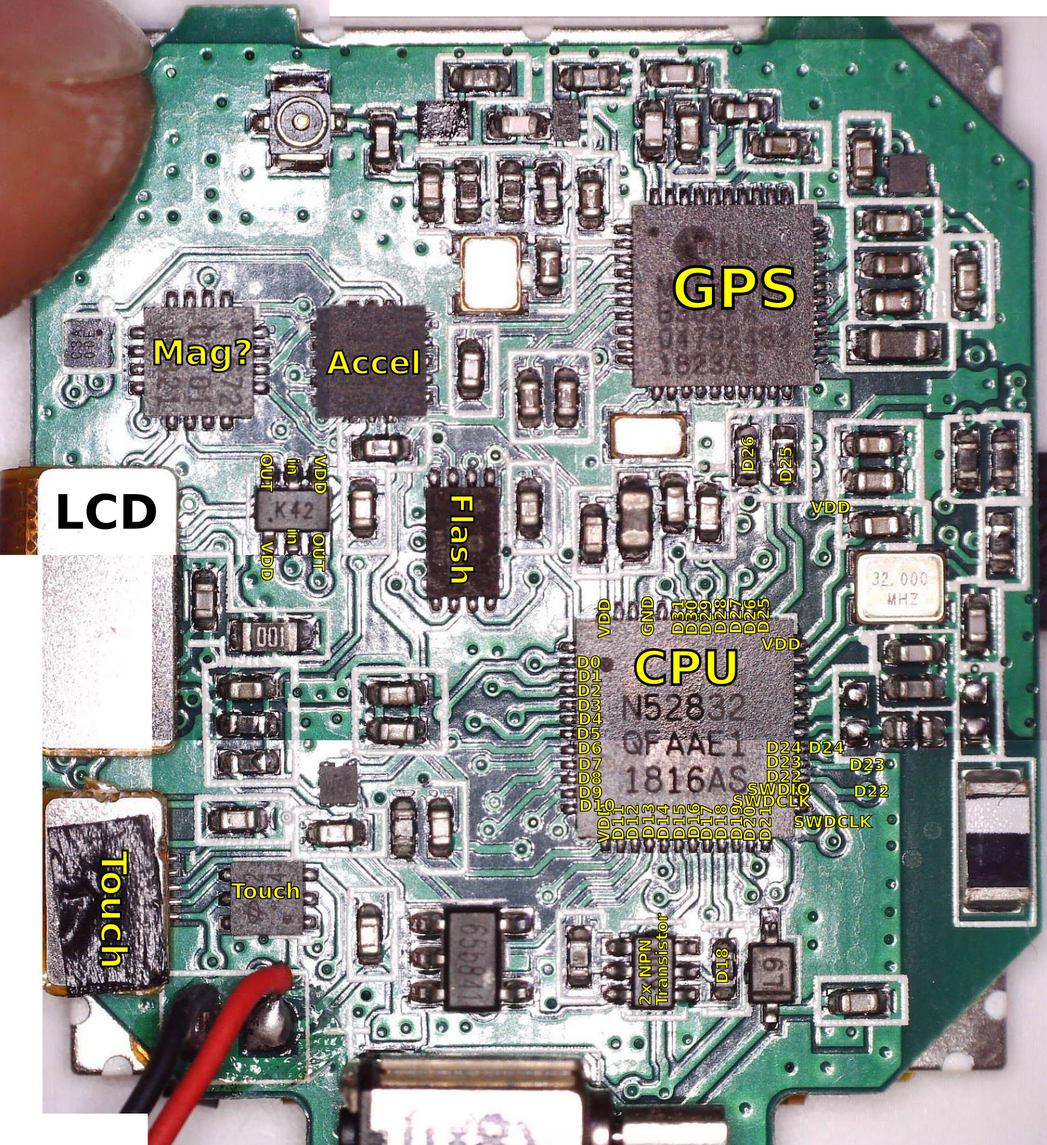
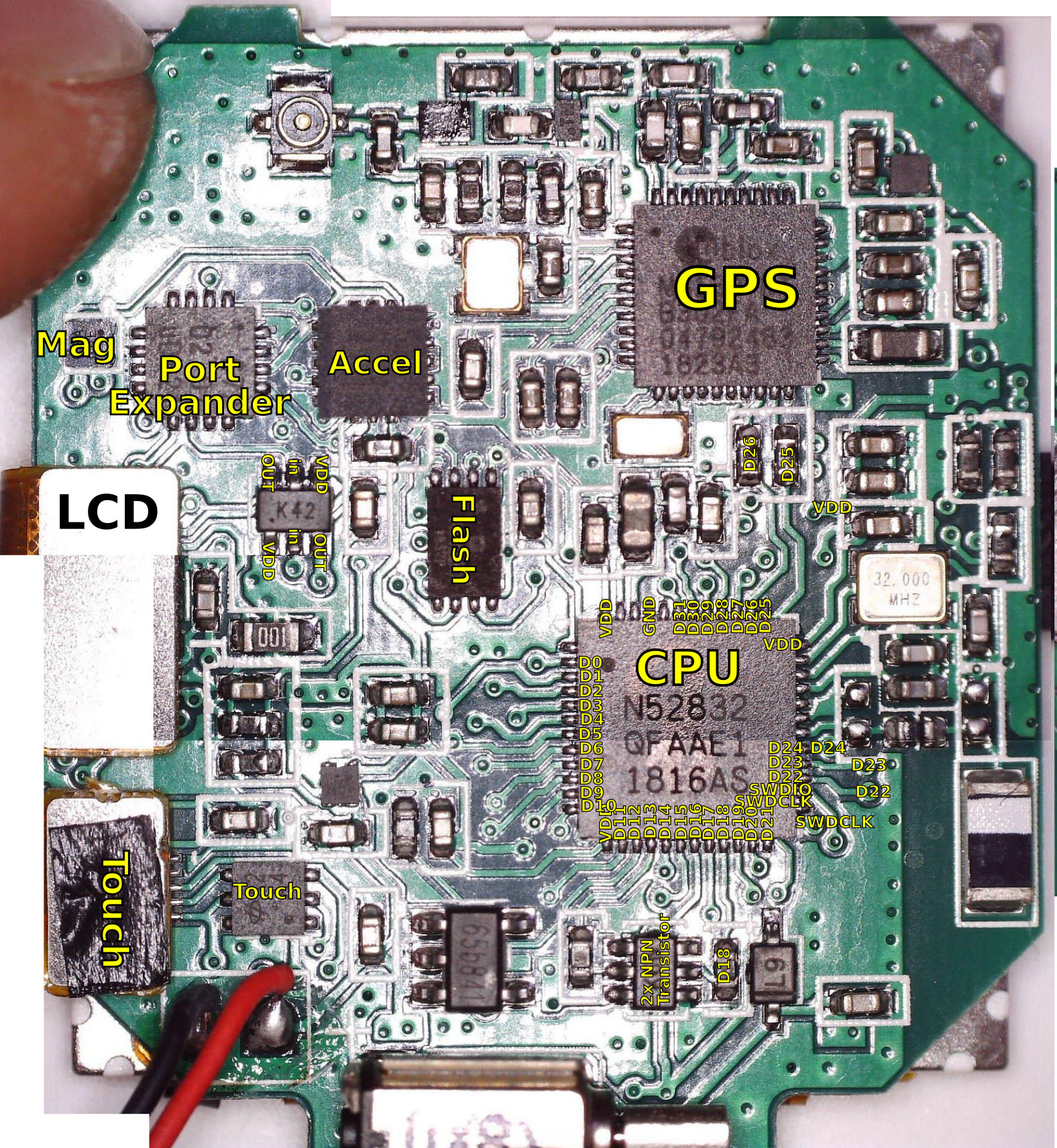
link in forum most for extra Bangle.js 1 info

diff --git a/info/Bangle.js Technical.md b/info/Bangle.js Technical.md
@@ -122,16 +122,20 @@ There's IO connected to the nRF52, plus an IO expander to provide power to some 
 | Mask | Description | Default value |
 |------|-------------|---------------|
 | 0x01 | GPS | 0 |
-| 0x02 |  | |
-| 0x04 |  | |
-| 0x08 |  | |
-| 0x10 |  | |
+| 0x02 | NC | |
+| 0x04 | NC | |
+| 0x08 | NC | |
+| 0x10 | NC | |
 | 0x20 | LCD backlight  |  1 |
 | 0x40 | LCD reset |  1 |
 | 0x80 | HRM  | 1 |
 
 [![PCB](Bangle.js Technical/PCB.jpg)](https://github.com/espruino/EspruinoDocs/raw/master/info/Bangle.js Technical/PCB.jpg)
 
+[![PCB pin markings](Bangle.js Technical/pins.jpg)](https://github.com/espruino/EspruinoDocs/raw/master/info/Bangle.js Technical/pins.jpg)
+
+Click on the pictures above for more zoomed in information. Also check out [this excellent forum post](https://forum.espruino.com/conversations/350817/#15409566)
+for even more detailed reverse engineering.
 
 SWD / Programming
 ------------------
